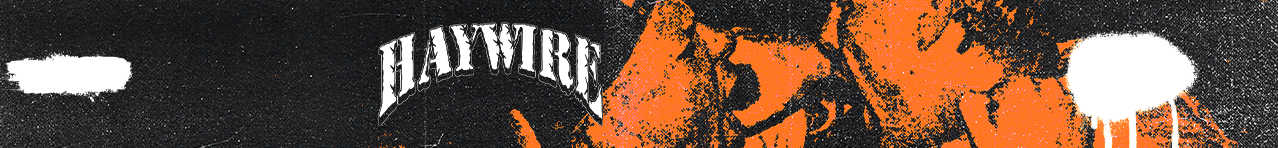
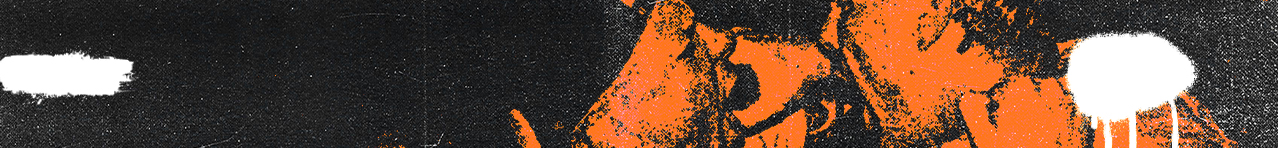
update card line up

Changed region(s): [[0.2746, 0.1351, 0.4883, 0.8378], [0.0, 0.3243, 0.1221, 0.7027]]

diff --git a/src/components/Lineup.vue b/src/components/Lineup.vue
@@ -18,59 +18,37 @@ const bands = [
     twitterLink: ''
   },
 
-  //  { 
-  //   id: 2, 
-  //   name: 'ZIP', 
-  //   origin: 'BOSTON, USA', 
-  //   image: '/line%20up/ZIP/card_detail_line-up_zip.jpg',
-  //   rowImage: '/line%20up/ZIP/card_line-up_zip.jpg',
-  //   about: 'Menjadi salah satu ikon hardcore punk dari Boston, Haywire dikenal dengan energi liar dan riff yang super ngebut. Mereka membawa distorsi kental yang tidak pernah gagal memanaskan moshpit di setiap panggungnya.',
-  //   social: '@haywire_hxc',
-  //   // spotifyLink: 'https://open.spotify.com/embed/artist/5lU30M9td0FUDVSTCucwnu?utm_source=generator&theme=0',
-  //   appleMusicLink: 'https://music.apple.com/us/artist/haywire-617/1715695747',
-  //   instagramLink: 'https://www.instagram.com/haywire617/',
-  //   youtubeLink: 'https://www.youtube.com/channel/UCP80m_rOjKXxjoBoQd2hyoA',
-  //   tiktokLink: 'https://www.tiktok.com/@haywire_617',
-  //   twitterLink: ''
-  // },
-  /*
-  { 
+   { 
+    id: 2, 
+    name: 'ZIP', 
+    origin: 'BOSTON, USA', 
+    image: '/line%20up/ZIP/card_detail_line-up_zip.jpg',
+    rowImage: '/line%20up/ZIP/card_line up_ZIP.jpg',
+    about: 'Menjadi salah satu ikon hardcore punk dari Boston, Haywire dikenal dengan energi liar dan riff yang super ngebut. Mereka membawa distorsi kental yang tidak pernah gagal memanaskan moshpit di setiap panggungnya.',
+    social: '@ZIP_hxc',
+    // spotifyLink: 'https://open.spotify.com/embed/artist/5lU30M9td0FUDVSTCucwnu?utm_source=generator&theme=0',
+    appleMusicLink: 'https://music.apple.com/us/artist/haywire-617/1715695747',
+    instagramLink: 'https://www.instagram.com/haywire617/',
+    youtubeLink: 'https://www.youtube.com/channel/UCP80m_rOjKXxjoBoQd2hyoA',
+    tiktokLink: 'https://www.tiktok.com/@haywire_617',
+    twitterLink: ''
+  },
+
+   { 
     id: 3, 
-    name: 'NO EXCUSE', 
-    origin: 'JAKARTA, ID', 
-    image: 'https://images.unsplash.com/photo-1459749411175-04bf5292ceea?q=80&w=600&auto=format&fit=crop',
-    about: 'Grup asal Jakarta yang konsisten membakar panggung dengan ketukan agresif dan lirik lugas. No Excuse hadir untuk menegaskan bahwa hardcore bukan cuma musik, tapi gaya hidup dan sikap!',
-    social: '@noexcusejkt',
-    spotifyLink: 'https://open.spotify.com/embed/playlist/37i9dQZF1DX3LDIBRoaCDQ?utm_source=generator&theme=0'
+    name: 'THE END', 
+    origin: 'BOSTON, USA', 
+    image: '/line%20up/theend/card_detail_line up_the end.jpg',
+    rowImage: '/line%20up/theend/card_line up_the end.jpg',
+    about: 'Menjadi salah satu ikon hardcore punk dari Boston, Haywire dikenal dengan energi liar dan riff yang super ngebut. Mereka membawa distorsi kental yang tidak pernah gagal memanaskan moshpit di setiap panggungnya.',
+    social: '@theend_hxc',
+    // spotifyLink: 'https://open.spotify.com/embed/artist/5lU30M9td0FUDVSTCucwnu?utm_source=generator&theme=0',
+    appleMusicLink: 'https://music.apple.com/us/artist/haywire-617/1715695747',
+    instagramLink: 'https://www.instagram.com/haywire617/',
+    youtubeLink: 'https://www.youtube.com/channel/UCP80m_rOjKXxjoBoQd2hyoA',
+    tiktokLink: 'https://www.tiktok.com/@haywire_617',
+    twitterLink: ''
   },
-  { 
-    id: 4, 
-    name: 'BLOOD RUNS COLD', 
-    origin: 'NEW YORK, USA', 
-    image: 'https://images.unsplash.com/photo-1540829016269-e0520f6ba43e?q=80&w=600&auto=format&fit=crop',
-    about: 'Membawa elemen beatdown dari New York Hardcore (NYHC), Blood Runs Cold menampilkan raungan yang intens, breakdown berat tiada ampun, dan lirik tentang realita keras di jalanan kota besar.',
-    social: '@bloodrunscoldny',
-    spotifyLink: 'https://open.spotify.com/embed/playlist/37i9dQZF1DX3LDIBRoaCDQ?utm_source=generator&theme=0'
-  },
-  { 
-    id: 5, 
-    name: 'ZIPPER', 
-    origin: 'JAKARTA, ID', 
-    image: 'https://images.unsplash.com/photo-1493225457124-a1a2a4af7714?q=80&w=600&auto=format&fit=crop',
-    about: 'Zipper siap melibas panggung lewat distorsi bising dan ketukan drum yang memacu adrenalin. Set energi tinggi mereka bakal memaksa semua orang dalam pit untuk bergerak.',
-    social: '@zipper_raw',
-    spotifyLink: 'https://open.spotify.com/embed/playlist/37i9dQZF1DX3LDIBRoaCDQ?utm_source=generator&theme=0'
-  },
-  { 
-    id: 6, 
-    name: 'FINAL ATTACK', 
-    origin: 'JAKARTA, ID', 
-    image: 'https://images.unsplash.com/photo-1520637102912-2df6bb2aec6d?q=80&w=600&auto=format&fit=crop',
-    about: 'Unit hardcore / thrash dari Jakarta, Final Attack mengkombinasikan solo gitar cepat dengan gempuran hardcore murni. Tontonan wajib bagi mereka yang haus akan kecepatan.',
-    social: '@finalattack',
-    spotifyLink: 'https://open.spotify.com/embed/playlist/37i9dQZF1DX3LDIBRoaCDQ?utm_source=generator&theme=0'
-  }
-  */
 ]
 
 // Modal state
@@ -174,7 +152,7 @@ onUnmounted(() => {
           </button>
           
           <div class="stunning-hero">
-            <div class="stunning-hero-img" :style="{ backgroundImage: 'url(' + selectedBand.image + ')' }"></div>
+            <div class="stunning-hero-img" :style="{ backgroundImage: 'url(\'' + selectedBand.image + '\')' }"></div>
             <div class="stunning-hero-gradient"></div>
             <div class="stunning-hero-text">
               <span class="stunning-badge">{{ selectedBand.origin }}</span>
